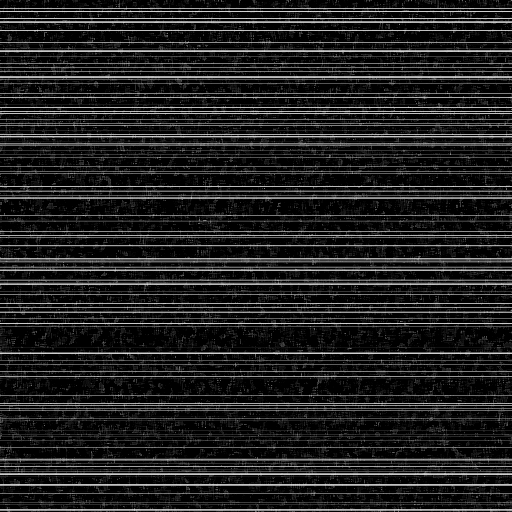
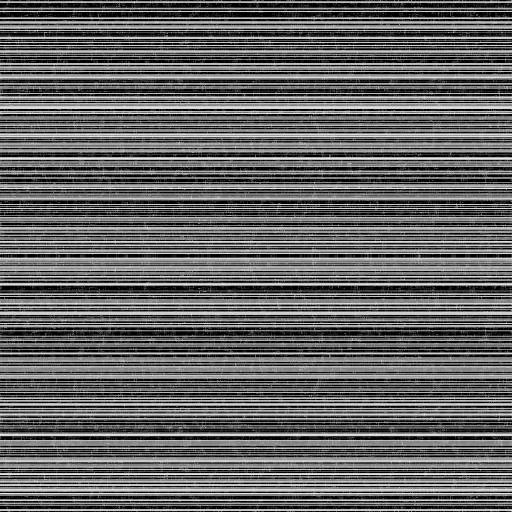
modify hairline

diff --git a/public/js/app.js b/public/js/app.js
@@ -1,1 +1,1 @@
-(function e(t,n,r){function s(o,u){if(!n[o]){if(!t[o]){var a=typeof require=="function"&&require;if(!u&&a)return a(o,!0);if(i)return i(o,!0);var f=new Error("Cannot find module '"+o+"'");throw f.code="MODULE_NOT_FOUND",f}var l=n[o]={exports:{}};t[o][0].call(l.exports,function(e){var n=t[o][1][e];return s(n?n:e)},l,l.exports,e,t,n,r)}return n[o].exports}var i=typeof require=="function"&&require;for(var o=0;o<r.length;o++)s(r[o]);return s})({1:[function(require,module,exports){"use strict";Object.defineProperty(exports,"__esModule",{value:true});exports.default=routes;var _index=require("./index");var _index2=_interopRequireDefault(_index);function _interopRequireDefault(obj){return obj&&obj.__esModule?obj:{default:obj}}function routes(path){switch(path){case"/":case"/index.html":default:return(0,_index2.default)()}}routes(window.location.pathname)},{"./index":3}],2:[function(require,module,exports){"use strict";Object.defineProperty(exports,"__esModule",{value:true});var _createClass=function(){function defineProperties(target,props){for(var i=0;i<props.length;i++){var descriptor=props[i];descriptor.enumerable=descriptor.enumerable||false;descriptor.configurable=true;if("value"in descriptor)descriptor.writable=true;Object.defineProperty(target,descriptor.key,descriptor)}}return function(Constructor,protoProps,staticProps){if(protoProps)defineProperties(Constructor.prototype,protoProps);if(staticProps)defineProperties(Constructor,staticProps);return Constructor}}();function _classCallCheck(instance,Constructor){if(!(instance instanceof Constructor)){throw new TypeError("Cannot call a class as a function")}}var Delayer=function(){function Delayer(_ref){var object=_ref.object,target=_ref.target,delay=_ref.delay;_classCallCheck(this,Delayer);this.object=object;this.target=target;this.delay=delay}_createClass(Delayer,[{key:"update",value:function update(){var diff=Math.abs(this.object.position.x-this.target.position.x)+Math.abs(this.object.position.y-this.target.position.y)+Math.abs(this.object.position.z-this.target.position.z);if(diff<.1){return}this.object.position.multiplyScalar(-1+1/this.delay);this.object.position.add(this.target.position);this.object.position.multiplyScalar(this.delay);this.object.quaternion.slerp(this.target.quaternion,this.delay)}}]);return Delayer}();exports.default=Delayer},{}],3:[function(require,module,exports){"use strict";Object.defineProperty(exports,"__esModule",{value:true});exports.default=index;var _delayer=require("./delayer");var _delayer2=_interopRequireDefault(_delayer);function _interopRequireDefault(obj){return obj&&obj.__esModule?obj:{default:obj}}function index(){var width=view.offsetWidth;var height=view.offsetHeight;view.setAttribute("width",width*2);view.setAttribute("height",height*2);var renderer=new THREE.WebGLRenderer({canvas:view,antialias:true});renderer.setClearColor(16777215,1);var scene=new THREE.Scene;var camera=new THREE.PerspectiveCamera(60,width/height,1,200);var cameraTarget=new THREE.PerspectiveCamera(60,width/height,1,200);cameraTarget.position.set(0,10,-30);camera.position.copy(cameraTarget.position);cameraTarget.lookAt(new THREE.Vector3(0,0,0));camera.lookAt(new THREE.Vector3(0,0,0));var cameraDelayer=new _delayer2.default({object:camera,target:cameraTarget,delay:.9});var controls=new THREE.OrbitControls(cameraTarget,renderer.domElement);controls.enablePan=false;controls.autoRotate=true;controls.autoRotateSpeed=-1;controls.maxDistance=40;controls.minDistance=15;controls.target.set(0,0,0);controls.maxPolarAngle=Math.PI*.45;var floorMirror=new THREE.Mirror(renderer,camera,{textureWidth:2048,textureHeight:2048,color:11184813});var reflectionCube=(new THREE.CubeTextureLoader).load(["./img/cubemap/posx.jpg","./img/cubemap/negx.jpg","./img/cubemap/posy.jpg","./img/cubemap/negy.jpg","./img/cubemap/posz.jpg","./img/cubemap/negz.jpg"]);var hairline=(new THREE.TextureLoader).load("./img/hairline.png");hairline.repeat.set(8,8);hairline.wrapS=hairline.wrapT=THREE.RepeatWrapping;var materialParams={envMap:reflectionCube,roughness:.6,metalness:.99,color:16777215,bumpMap:hairline,bumpScale:-.002};var material=new THREE.MeshStandardMaterial(Object.assign({},materialParams));var points=[];var segments=64;for(var i=0;i<segments;i++){var theta=Math.PI*2*i/segments;points.push(new THREE.Vector2(theta<Math.PI?Math.sin(theta)*.3-6:Math.sin(theta)*.5-6,Math.cos(theta)*1))}points.push(points[0].clone());var geometry=new THREE.LatheBufferGeometry(points,64);var mesh=new THREE.Mesh(geometry,material);mesh.rotation.z=Math.PI/2;mesh.rotation.y=-Math.PI/6;mesh.position.y=.15;scene.add(mesh);var floorGeometry=new THREE.PlaneBufferGeometry(100,100,4);var floor=new THREE.Mesh(floorGeometry,floorMirror.material);floor.rotation.set(-Math.PI/2,0,0);floor.position.set(0,-6.3,0);floor.add(floorMirror);scene.add(floor);var pointLight=new THREE.PointLight(15790335,.9);pointLight.position.set(-100,300,-100);var directionalLight=new THREE.DirectionalLight(16777215,.3);directionalLight.position.set(0,-100,-100);scene.add(directionalLight);scene.add(pointLight);function tick(time){controls.update();cameraDelayer.update();floorMirror.render();renderer.render(scene,camera);requestAnimationFrame(tick)}requestAnimationFrame(tick)}},{"./delayer":2}]},{},[1]);
+(function e(t,n,r){function s(o,u){if(!n[o]){if(!t[o]){var a=typeof require=="function"&&require;if(!u&&a)return a(o,!0);if(i)return i(o,!0);var f=new Error("Cannot find module '"+o+"'");throw f.code="MODULE_NOT_FOUND",f}var l=n[o]={exports:{}};t[o][0].call(l.exports,function(e){var n=t[o][1][e];return s(n?n:e)},l,l.exports,e,t,n,r)}return n[o].exports}var i=typeof require=="function"&&require;for(var o=0;o<r.length;o++)s(r[o]);return s})({1:[function(require,module,exports){"use strict";Object.defineProperty(exports,"__esModule",{value:true});exports.default=routes;var _index=require("./index");var _index2=_interopRequireDefault(_index);function _interopRequireDefault(obj){return obj&&obj.__esModule?obj:{default:obj}}function routes(path){switch(path){case"/":case"/index.html":default:return(0,_index2.default)()}}routes(window.location.pathname)},{"./index":3}],2:[function(require,module,exports){"use strict";Object.defineProperty(exports,"__esModule",{value:true});var _createClass=function(){function defineProperties(target,props){for(var i=0;i<props.length;i++){var descriptor=props[i];descriptor.enumerable=descriptor.enumerable||false;descriptor.configurable=true;if("value"in descriptor)descriptor.writable=true;Object.defineProperty(target,descriptor.key,descriptor)}}return function(Constructor,protoProps,staticProps){if(protoProps)defineProperties(Constructor.prototype,protoProps);if(staticProps)defineProperties(Constructor,staticProps);return Constructor}}();function _classCallCheck(instance,Constructor){if(!(instance instanceof Constructor)){throw new TypeError("Cannot call a class as a function")}}var Delayer=function(){function Delayer(_ref){var object=_ref.object,target=_ref.target,delay=_ref.delay;_classCallCheck(this,Delayer);this.object=object;this.target=target;this.delay=delay}_createClass(Delayer,[{key:"update",value:function update(){var diff=Math.abs(this.object.position.x-this.target.position.x)+Math.abs(this.object.position.y-this.target.position.y)+Math.abs(this.object.position.z-this.target.position.z);if(diff<.1){return}this.object.position.multiplyScalar(-1+1/this.delay);this.object.position.add(this.target.position);this.object.position.multiplyScalar(this.delay);this.object.quaternion.slerp(this.target.quaternion,this.delay)}}]);return Delayer}();exports.default=Delayer},{}],3:[function(require,module,exports){"use strict";Object.defineProperty(exports,"__esModule",{value:true});exports.default=index;var _delayer=require("./delayer");var _delayer2=_interopRequireDefault(_delayer);function _interopRequireDefault(obj){return obj&&obj.__esModule?obj:{default:obj}}function index(){var width=view.offsetWidth;var height=view.offsetHeight;view.setAttribute("width",width*2);view.setAttribute("height",height*2);var renderer=new THREE.WebGLRenderer({canvas:view,antialias:true});renderer.setClearColor(16777215,1);var scene=new THREE.Scene;var camera=new THREE.PerspectiveCamera(60,width/height,1,200);var cameraTarget=new THREE.PerspectiveCamera(60,width/height,1,200);cameraTarget.position.set(0,10,-30);camera.position.copy(cameraTarget.position);cameraTarget.lookAt(new THREE.Vector3(0,0,0));camera.lookAt(new THREE.Vector3(0,0,0));var cameraDelayer=new _delayer2.default({object:camera,target:cameraTarget,delay:.9});var controls=new THREE.OrbitControls(cameraTarget,renderer.domElement);controls.enablePan=false;controls.maxDistance=40;controls.minDistance=15;controls.target.set(0,0,0);controls.maxPolarAngle=Math.PI*.45;var floorMirror=new THREE.Mirror(renderer,camera,{textureWidth:2048,textureHeight:2048,color:11184813});var reflectionCube=(new THREE.CubeTextureLoader).load(["./img/cubemap/posx.jpg","./img/cubemap/negx.jpg","./img/cubemap/posy.jpg","./img/cubemap/negy.jpg","./img/cubemap/posz.jpg","./img/cubemap/negz.jpg"]);var hairline=(new THREE.TextureLoader).load("./img/hairline.png");hairline.repeat.set(8,1);hairline.wrapS=hairline.wrapT=THREE.RepeatWrapping;var materialParams={envMap:reflectionCube,roughness:.7,metalness:.99,color:16777215,bumpMap:hairline,bumpScale:-.001};var material=new THREE.MeshStandardMaterial(Object.assign({},materialParams));var points=[];var segments=128;for(var i=0;i<segments;i++){var theta=Math.PI*2*i/segments;points.push(new THREE.Vector2(theta<Math.PI?Math.sin(theta)*.3-6:Math.sin(theta)*.5-6,Math.cos(theta)*1))}points.push(points[0].clone());var geometry=new THREE.LatheBufferGeometry(points,128);var mesh=new THREE.Mesh(geometry,material);mesh.rotation.z=Math.PI/2;mesh.rotation.y=-Math.PI/6;mesh.position.y=.15;scene.add(mesh);var floorGeometry=new THREE.PlaneBufferGeometry(100,100,4);var floor=new THREE.Mesh(floorGeometry,floorMirror.material);floor.rotation.set(-Math.PI/2,0,0);floor.position.set(0,-6.3,0);floor.add(floorMirror);scene.add(floor);var pointLight=new THREE.PointLight(15790335,.9);pointLight.position.set(-100,300,-100);var directionalLight=new THREE.DirectionalLight(16777215,.3);directionalLight.position.set(0,-100,-100);scene.add(directionalLight);scene.add(pointLight);function tick(time){controls.update();cameraDelayer.update();floorMirror.render();renderer.render(scene,camera);requestAnimationFrame(tick)}requestAnimationFrame(tick)}},{"./delayer":2}]},{},[1]);

diff --git a/src/js/index.js b/src/js/index.js
@@ -26,8 +26,6 @@ export default function index() {
   })
   const controls = new THREE.OrbitControls(cameraTarget, renderer.domElement);
   controls.enablePan = false
-  controls.autoRotate = true
-  controls.autoRotateSpeed = -1
   controls.maxDistance = 40
   controls.minDistance = 15
   controls.target.set(0, 0, 0)
@@ -49,22 +47,22 @@ export default function index() {
   ]);
 
   var hairline = new THREE.TextureLoader().load("./img/hairline.png");
-  hairline.repeat.set(8, 8);
+  hairline.repeat.set(8, 1);
   hairline.wrapS = hairline.wrapT = THREE.RepeatWrapping;
 
   const materialParams = {
     envMap: reflectionCube,
-    roughness: .6,
+    roughness: .7,
     metalness: .99,
     color: 0xffffff,
     bumpMap: hairline,
-    bumpScale: -.002,
+    bumpScale: -.001,
   };
 
   var material = new THREE.MeshStandardMaterial(Object.assign({}, materialParams))
 
   const points = [];
-  const segments = 64
+  const segments = 128
   for(let i=0; i<segments; i++) {
     const theta = Math.PI * 2 * i / segments;
     points.push(new THREE.Vector2(
@@ -73,7 +71,7 @@ export default function index() {
     ));
   }
   points.push(points[0].clone());
-  const geometry = new THREE.LatheBufferGeometry(points, 64);
+  const geometry = new THREE.LatheBufferGeometry(points, 128);
 
   const mesh = new THREE.Mesh(geometry, material);
   mesh.rotation.z = Math.PI / 2;
